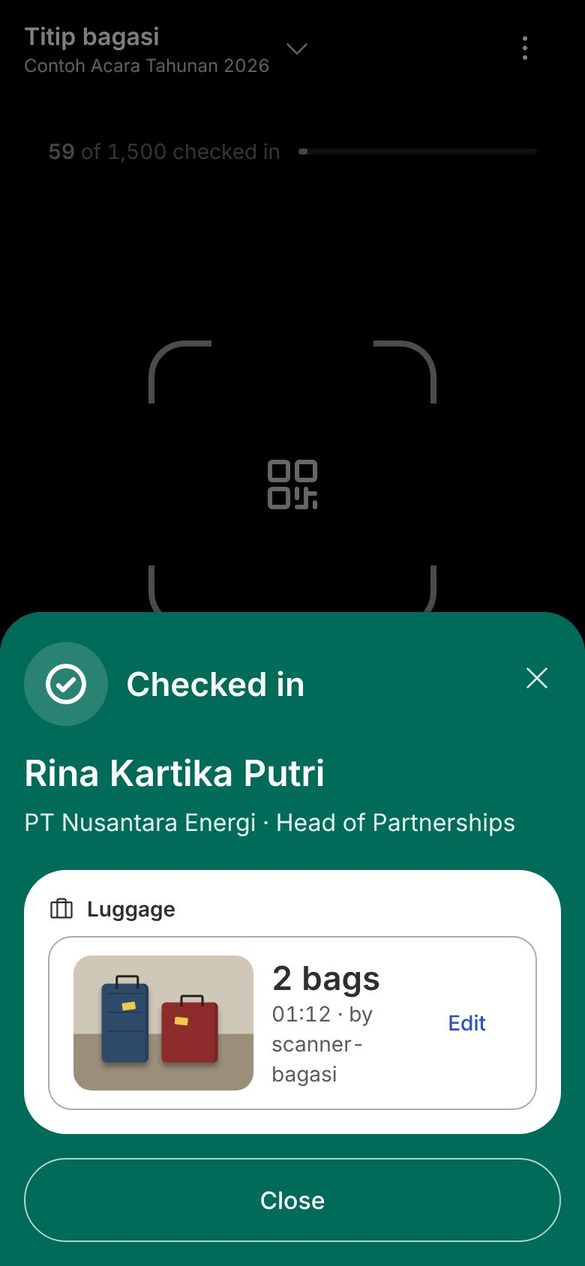
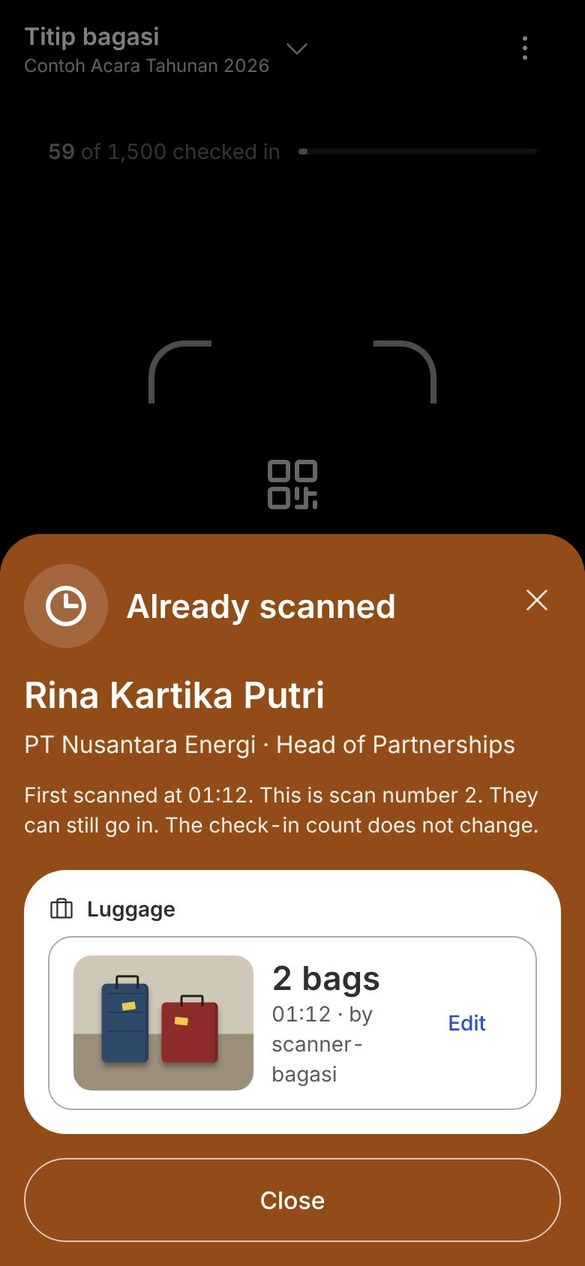
Scanner guide: re-scan shots 19 and 22 on the orange Already scanned sheet
The harness re-scanned within the scanner's 30 s window, so the phone
re-opened its own green sheet without asking the server. The shots now
wait that window out and show the real duplicate result.

Claude-Session: https://claude.ai/code/session_01BbtsbgVen8D1xESV4ZJwca

diff --git a/public/panduan/scanner.html b/public/panduan/scanner.html
@@ -230,7 +230,7 @@ footer { margin-top: 36px; color: var(--muted); font-size: 13px; }
     <p>Jumlah bagasi selalu disimpan lebih dulu, baru fotonya menyusul. Kalau fotonya gagal terkirim, muncul kotak <span class="ui kalimat">The count is saved, but the photo did not upload.</span> Jumlahnya sudah aman. Tekan <span class="ui">Try photo again</span>, atau <span class="ui">Skip photo</span> kalau antrean panjang; catatannya tetap tersimpan, hanya tanpa foto (<span class="ui">no photo</span>).</p>
     <figure><img src="/panduan/scanner/18-bagasi-foto-gagal.jpg" alt="Tulisan oranye The count is saved, but the photo did not upload, dengan tombol Skip photo dan Try photo again" loading="lazy"><figcaption>Foto gagal: jumlah tetap tersimpan</figcaption></figure>
     <h3>Memindai ulang dan mengubah catatan</h3>
-    <p>Peserta yang sudah tercatat menampilkan catatannya: jumlah, foto, jam, dan siapa yang menyimpan. Ketuk fotonya untuk membukanya ukuran penuh di tab baru. Ada bagasi yang tertinggal atau salah hitung? Tekan <span class="ui">Edit</span>, ubah angkanya atau ambil foto baru, lalu simpan lagi.</p>
+    <p>Peserta yang sudah tercatat muncul di lembar oranye <span class="ui">Already scanned</span> bersama catatannya: jumlah, foto, jam, dan siapa yang menyimpan. Ketuk fotonya untuk membukanya ukuran penuh di tab baru. Ada bagasi yang tertinggal atau salah hitung? Tekan <span class="ui">Edit</span>, ubah angkanya atau ambil foto baru, lalu simpan lagi.</p>
     <figure><img src="/panduan/scanner/19-bagasi-scan-ulang.jpg" alt="Catatan bagasi yang sudah ada dengan tombol Edit" loading="lazy"><figcaption>Sudah tercatat: Edit untuk mengubah</figcaption></figure>
     <ul>
       <li>Lembar di meja bagasi tidak menutup sendiri. Kalau peserta berikutnya terpindai sebelum Anda menyimpan, muncul tulisan oranye <span class="ui kalimat">… is scanned and waiting. Save the luggage of … first.</span> Simpan dulu bagasi orang yang sedang terbuka; peserta berikutnya tampil sendiri setelahnya. <span class="ui">Skip</span> melompat ke peserta berikutnya <b>tanpa</b> menyimpan bagasi orang yang sedang terbuka.</li>
@@ -253,7 +253,7 @@ footer { margin-top: 36px; color: var(--muted); font-size: 13px; }
       <figure><img src="/panduan/scanner/21-ambil-diserahkan.jpg" alt="Tulisan Handed over dengan jam, nama akun petugas, dan tombol Undo" loading="lazy"><figcaption>Handed over: jam dan nama petugas tercatat</figcaption></figure>
     </div>
     <h3>Sudah diambil, atau tidak ada titipan</h3>
-    <p>Peserta yang bagasinya sudah diserahkan menampilkan kotak <span class="ui kalimat">Already handed over at … by ….</span> Jangan serahkan lagi. Kalau peserta bilang ada koper yang belum ia terima, panggil koordinator. Peserta yang tidak pernah dipindai di meja titip menampilkan <span class="ui">No luggage recorded</span>: tanyakan di mana ia menitipkan bagasinya.</p>
+    <p>Peserta yang bagasinya sudah diserahkan muncul di lembar oranye <span class="ui">Already scanned</span> dengan kotak <span class="ui kalimat">Already handed over at … by ….</span> Jangan serahkan lagi. Kalau peserta bilang ada koper yang belum ia terima, panggil koordinator. Peserta yang tidak pernah dipindai di meja titip menampilkan <span class="ui">No luggage recorded</span>: tanyakan di mana ia menitipkan bagasinya.</p>
     <div class="pair">
       <figure><img src="/panduan/scanner/22-ambil-sudah.jpg" alt="Kotak Already handed over at 07:40 by scanner-ambil2 di atas foto koper" loading="lazy"><figcaption>Sudah diserahkan: jangan serahkan lagi</figcaption></figure>
       <figure><img src="/panduan/scanner/23-ambil-tidak-ada.jpg" alt="Tulisan No luggage recorded" loading="lazy"><figcaption>Tidak ada titipan</figcaption></figure>
